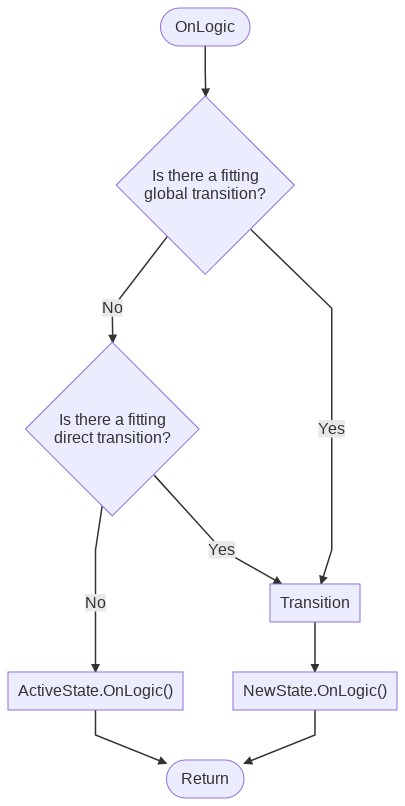
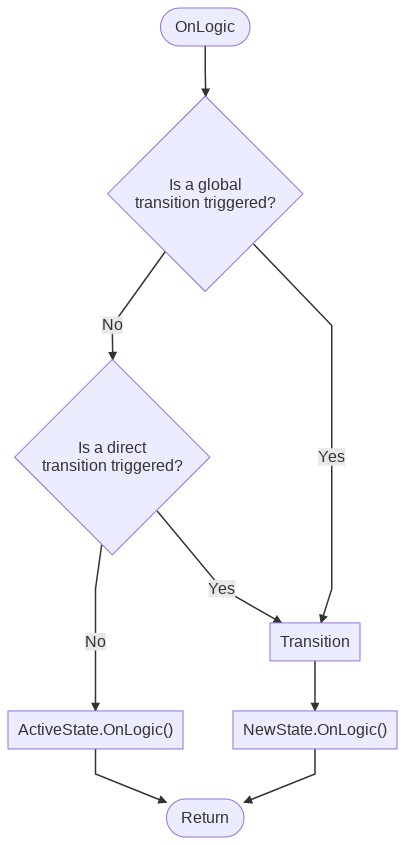
Add "Why use UnityHFSM" block to README
- Add a list of points, why the user should be interested in UnityHFSM
- Improve the wording of some sentences :smile:
- Improve the wording of the OnLogicFlowchart diagram, making it a bit clearer
- Add Roadmap

diff --git a/src/StateMachine.cs b/src/StateMachine.cs
@@ -127,7 +127,7 @@ namespace FSM {
 
 		/// <summary>
 		/// Initialises the state machine and must be called before OnLogic is called.
-		/// OnEnter() sets the activeState to the selected startState.
+		/// It sets the activeState to the selected startState.
 		/// </summary>
 		override public void OnEnter() {
 			ChangeState(startState);

diff --git a/README.md b/README.md
@@ -4,7 +4,7 @@
 
 A simple yet powerful **hierarchical finite state machine** for the Unity game engine. It is scalable and customisable by being **class-based**, but also supports functions (or lambdas) for **fast prototyping**.
 
-It has a special focus on the timing and control flow of state transitions, making it ideal for timing and synchronisation sensitive problems.
+It has a special focus on the temporal aspects of state transitions, making it ideal for timing and synchronisation sensitive problems.
 
 - [Fast prototyping](#simple-state-machine)
 
@@ -20,7 +20,29 @@ It has a special focus on the timing and control flow of state transitions, maki
 
 - [Scalable (class-based)](#class-based-architecture)
 
-## Examples
+
+
+**Why use UnityHFSM?**
+
+- State machines are an amazingly easy way to write and organise game logic. (As soon as you have states, e.g. Walk, Run, Sneak, Jump, you can use a state machine)
+
+- It helps you **tame complex behaviour** (e.g. weapon handling -> cooling, ammo, reload, fire) or write AI for NPCs
+
+- Helps you write **self documenting code**, that is **maintainable** and **readable**
+
+- **Reduces the boilerplate** code required to write a state machine
+
+- UnityHFSM is **lightweight** and **efficient**, making it perfect for solving small and big problems
+
+- It is **especially designed for Unity**, and supports **Coroutines**, which would otherwise be difficult to implement in a state machine
+
+- The code is **well documented**
+
+- It is **not a component** (MonoBehaviour) and therefore has a **low overhead**
+
+- By being hierarchical, it can reduce the amount of duplicate code between states
+
+## Example
 
 ## Simple State Machine
 
@@ -289,7 +311,7 @@ The state machine supports two ways of changing states:
    }));
    ```
 
-There is also a slight variation of the `Transition` state change behaviour, that allows you to transition to a specific state from any other state (a "global" transition as opposed to a "local" / "direct" transition). They have the same `forceInstantly` / `needsExitTime` handling as normal transitions.
+There is also a slight variation of the `Transition` state change behaviour, that allows you to change to a specific state from any other state (a "global" transition as opposed to a "local" / "direct" transition). They have the same `forceInstantly` / `needsExitTime` handling as normal transitions.
 
 ```csharp
 fsm.AddTransitionFromAny( new Transition(
@@ -311,13 +333,13 @@ fsm.AddTransitionFromAny( new Transition(
 
 ## Control flow of OnLogic
 
-Every StateMachine's `OnLogic` method manages the automatic transitions via Transition (`TransitionBase`) objects and the active state's logic function.
+Every StateMachine's `OnLogic` method manages the automatic transitions via `Transition` (`TransitionBase`) objects and the active state's logic function.
 
 Here's what happens:
 
-1. The state machine checks all global transitions (transitions from any state) and sees if a transition should occur. If this is the case, the state machine will transition to the new state, and call the new state's `OnLogic` function.
+1. The state machine checks all global transitions (transitions from any state) and sees if a transition should occur. If this is the case, the state machine will advance to the new state, and call the new state's `OnLogic` function.
 
-2. If this is not the case, the fsm checks all direct transitions (transitions that go directly from the active state to another state) and sees if a transition should occur. If this is the case, the state machine will transition to the new state, and call the new state's `OnLogic` function.
+2. If this is not the case, the fsm checks all direct transitions (transitions that go directly from the active state to another state) and sees if a transition should occur. If this is the case, the state machine will move on to the new state, and call the new state's `OnLogic` function.
 
 3. If this is not the case, the fsm will finally call the currently active state's `OnLogic` function.
 
@@ -412,3 +434,29 @@ Simply inherit from the base class `StateBase` and override the methods you need
 ```
 
 More documentation coming soon...
+
+### Roadmap
+
+- [ ] Getting started / Installation guide
+
+**v1.6**
+
+- [ ] HybridStateMachine for less code duplication
+
+- [ ] State wrappers for running companion code with states
+
+- [ ] Docstring documentation of HybridStateMachine
+
+- [ ] Docstring documentation of StateWrapper
+
+- [ ] Documentation for avoiding duplicate code by using the HybridStateMachine
+
+**v1.7**
+
+- [ ] Dynamic state removal
+
+- [ ] More demos
+
+- [ ] Documentation for re-using state machines (by using functions to create FSMs)
+
+- [ ] Documentation of dynamically created state machines (and their use, e.g. wall jump -> has the player unlocked this ability? -> Don't add transitions if not)
